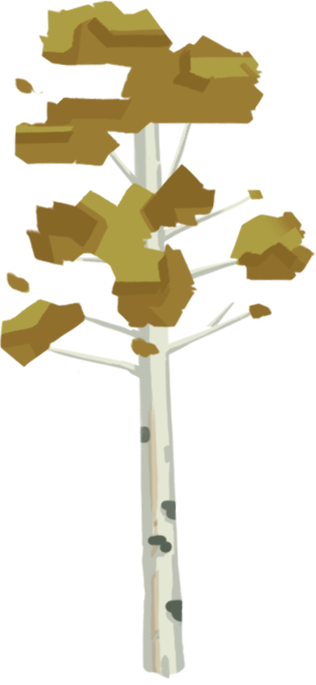
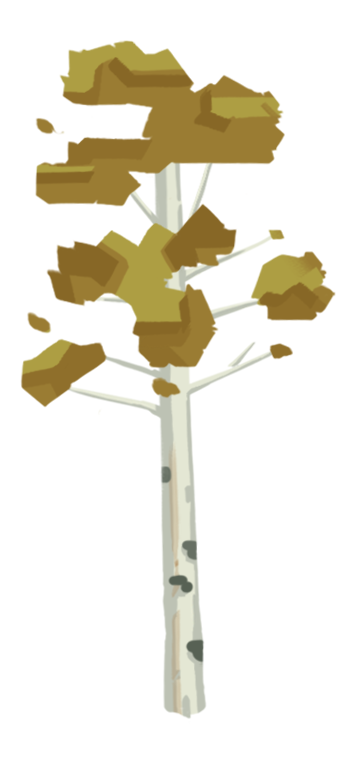
feat: 更新植物效果逻辑，优化松树生长阶段的资源管理和冷却时间处理

Changed region(s): [[0.0, 0.0, 0.9968, 1.0]]

diff --git a/Assets/Scripts/Harvest/Harvestable.cs b/Assets/Scripts/Harvest/Harvestable.cs
@@ -62,11 +62,10 @@ namespace HexGame.Harvest
                 if (pineObj == null) return;
                 pineConeRenderer = pineObj.GetComponent<SpriteRenderer>();
                 // 预加载三张生长阶段图片
-                pineSprites = new Sprite[3];
-                pineSprites[0] = Resources.Load<Sprite>("Images/Tree/huaShu3");
-                pineSprites[1] = Resources.Load<Sprite>("Images/Tree/huaShu2");
-                pineSprites[2] = Resources.Load<Sprite>("Images/Tree/huaShu1");
-                if (pineConeRenderer != null && pineSprites[0] != null)
+                pineSprites = new Sprite[2];
+                pineSprites[0] = Resources.Load<Sprite>("Images/Tree/huaShu2");
+                pineSprites[1] = Resources.Load<Sprite>("Images/Tree/huaShu1");
+                if (pineConeRenderer is not null && pineSprites[0] is not null)
                     pineConeRenderer.sprite = pineSprites[0];
             }
         }
@@ -90,30 +89,31 @@ namespace HexGame.Harvest
             if (resourceType == HarvestType.PineCone && pineConeRenderer && pineSprites != null)
             {
                 float progress = 1f - Mathf.Clamp01(growthTime / growthDuration);
-                if (progress < 1f / 3f)
+                if (progress < 1f / 2f)
                 {
                     pineConeRenderer.sprite = pineSprites[0];
                 }
-                else if (progress < 2f / 3f)
+                else if (progress < 1f)
                 {
                     pineConeRenderer.sprite = pineSprites[1];
-                }
-                else
-                {
-                    pineConeRenderer.sprite = pineSprites[2];
                 }
             }
 
             if (!isGrown)
             {
                 growthTime -= Time.deltaTime;
-
             }
 
-
+            // 处理冷却时间
             if (!canHarvest && currentCooldown > 0)
             {
                 currentCooldown -= Time.deltaTime;
+                // 当冷却时间结束时，重置可收获状态
+                if (currentCooldown <= 0)
+                {
+                    canHarvest = true;
+                    currentCooldown = 0;
+                }
             }
         }
 

diff --git a/Assets/Scripts/Card/Effects/PlantPineConEffect.cs b/Assets/Scripts/Card/Effects/PlantPineConEffect.cs
@@ -20,15 +20,19 @@ public class PlantPineConeEffect : CardEffect
         // 将格子转为松树格子
         targetCell.SetGridType(GridType.PlantedTree);
 
-        var cellPineCone = new GameObject("CellPineCone");
+        var CellTree = new GameObject("CellPineCone");
+        CellTree.transform.position = targetCell.transform.position;
 
-        cellPineCone.transform.SetParent(targetCell.transform);
-        var spriteRenderer = cellPineCone.AddComponent<SpriteRenderer>();
+        // 将树对象设置为格子对象的子对象
+        CellTree.transform.SetParent(targetCell.transform);
+        var spriteRenderer = CellTree.AddComponent<SpriteRenderer>();
+        spriteRenderer.sprite = Resources.Load<Sprite>("Images/Tree/songShu");
 
-        cellPineCone.transform.localPosition = new Vector3(0, 0.5f, 0);
+        CellTree.transform.localPosition = new Vector3(0, 0.5f, 0);
 
         spriteRenderer.transform.localScale = new Vector3(0.2f, 0.2f, 0.2f);
 
+        
         // 添加可收获组件
         Harvestable harvestable = targetCell.gameObject.AddComponent<Harvestable>();
         harvestable.SetResourceType(HarvestType.PineCone);

diff --git a/Assets/Scripts/Card/Effects/PlantTreeEffect.cs b/Assets/Scripts/Card/Effects/PlantTreeEffect.cs
@@ -17,13 +17,15 @@ public class PlantTreeEffect : CardEffect
         // 将格子转为树格子
         targetCell.SetGridType(GridType.PlantedTree);
 
-        var CellTree = new GameObject("CellTree");
-        CellTree.transform.position = targetCell.transform.position;
+        var cellPineCone = new GameObject("CellTree");
 
-        // 将树对象设置为格子对象的子对象
-        CellTree.transform.SetParent(targetCell.transform);
-        var spriteRenderer = CellTree.AddComponent<SpriteRenderer>();
-        spriteRenderer.sprite = Resources.Load<Sprite>("Images/Tree/songShu");
+        cellPineCone.transform.SetParent(targetCell.transform);
+        var spriteRenderer = cellPineCone.AddComponent<SpriteRenderer>();
+
+        cellPineCone.transform.localPosition = new Vector3(0, 0.5f, 0);
+
+        spriteRenderer.transform.localScale = new Vector3(0.2f, 0.2f, 0.2f);
+
 
         // 添加可收获组件
         Harvestable harvestable = targetCell.gameObject.AddComponent<Harvestable>();
